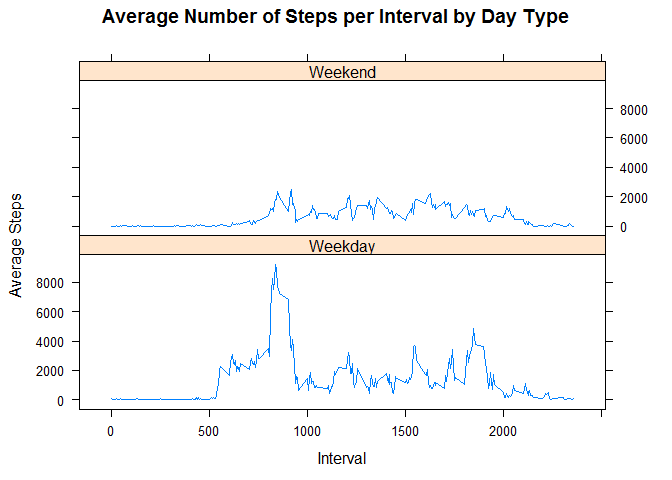
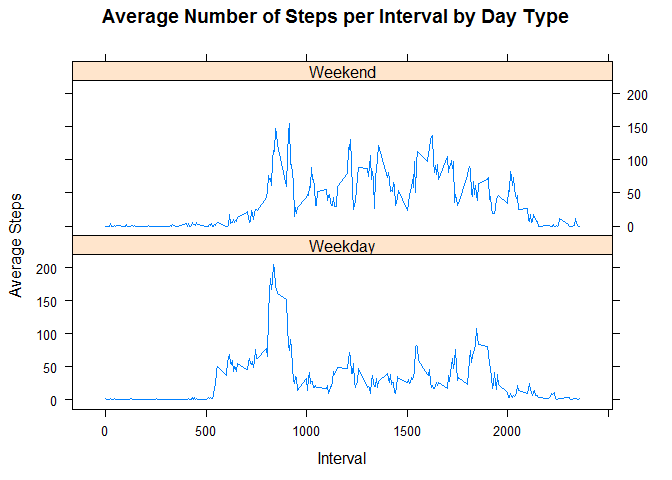
FIX WEEKEND-WEEKDAY GRAPH TO USE MEAN INSTEAD OF SUM

diff --git a/PA1_template.html b/PA1_template.html
@@ -129,12 +129,12 @@ $(document).ready(function () {
 <div id="load-needed-packages" class="section level2">
 <h2>load needed packages</h2>
 <pre class="r"><code>library(tidyverse)</code></pre>
-<pre><code>## -- Attaching packages ------------------------------------------------------ tidyverse 1.2.1 --</code></pre>
+<pre><code>## -- Attaching packages ---------------------------------- tidyverse 1.2.1 --</code></pre>
 <pre><code>## v ggplot2 2.2.1     v purrr   0.2.4
 ## v tibble  1.4.1     v dplyr   0.7.4
 ## v tidyr   0.7.2     v stringr 1.2.0
 ## v readr   1.1.1     v forcats 0.2.0</code></pre>
-<pre><code>## -- Conflicts --------------------------------------------------------- tidyverse_conflicts() --
+<pre><code>## -- Conflicts ------------------------------------- tidyverse_conflicts() --
 ## x dplyr::filter() masks stats::filter()
 ## x dplyr::lag()    masks stats::lag()</code></pre>
 <pre class="r"><code>library(lattice)</code></pre>
@@ -216,9 +216,9 @@ The median number of steps per day is 10,395. This is lower than the original es
 </div>
 <div id="make-a-panel-plot-of-average-number-of-steps-taken-per-interval-split-by-weekday-and-weekend." class="section level3">
 <h3>Make a panel plot of average number of steps taken per interval split by weekday and weekend.</h3>
-<pre class="r"><code>dataForGraph&lt;-activityImputed%&gt;%group_by(daytype,interval)%&gt;%summarise(avgSteps=sum(steps,na.rm=TRUE))
+<pre class="r"><code>dataForGraph&lt;-activityImputed%&gt;%group_by(daytype,interval)%&gt;%summarise(avgSteps=mean(steps,na.rm=TRUE))
  xyplot(avgSteps~interval|daytype,data=dataForGraph,type=&quot;l&quot;,layout=c(1,2),main=&quot;Average Number of Steps per Interval by Day Type&quot;,ylab=&quot;Average Steps&quot;,xlab=&quot;Interval&quot;)</code></pre>
[2 lines of base64/hex data omitted]
 </div>
 </div>
 

diff --git a/PA1_template.md b/PA1_template.md
@@ -14,7 +14,7 @@ library(tidyverse)
 ```
 
 ```
-## -- Attaching packages ------------------------------------------------------ tidyverse 1.2.1 --
+## -- Attaching packages ---------------------------------- tidyverse 1.2.1 --
 ```
 
 ```
@@ -25,7 +25,7 @@ library(tidyverse)
 ```
 
 ```
-## -- Conflicts --------------------------------------------------------- tidyverse_conflicts() --
+## -- Conflicts ------------------------------------- tidyverse_conflicts() --
 ## x dplyr::filter() masks stats::filter()
 ## x dplyr::lag()    masks stats::lag()
 ```
@@ -132,7 +132,7 @@ activityImputed$daytype<-ifelse(weekdays(as.Date(activityImputed$date))%in%c("Sa
 ### Make a panel plot of average number of steps taken per interval split by weekday and weekend.
 
 ```r
-dataForGraph<-activityImputed%>%group_by(daytype,interval)%>%summarise(avgSteps=sum(steps,na.rm=TRUE))
+dataForGraph<-activityImputed%>%group_by(daytype,interval)%>%summarise(avgSteps=mean(steps,na.rm=TRUE))
  xyplot(avgSteps~interval|daytype,data=dataForGraph,type="l",layout=c(1,2),main="Average Number of Steps per Interval by Day Type",ylab="Average Steps",xlab="Interval")
 ```
 
